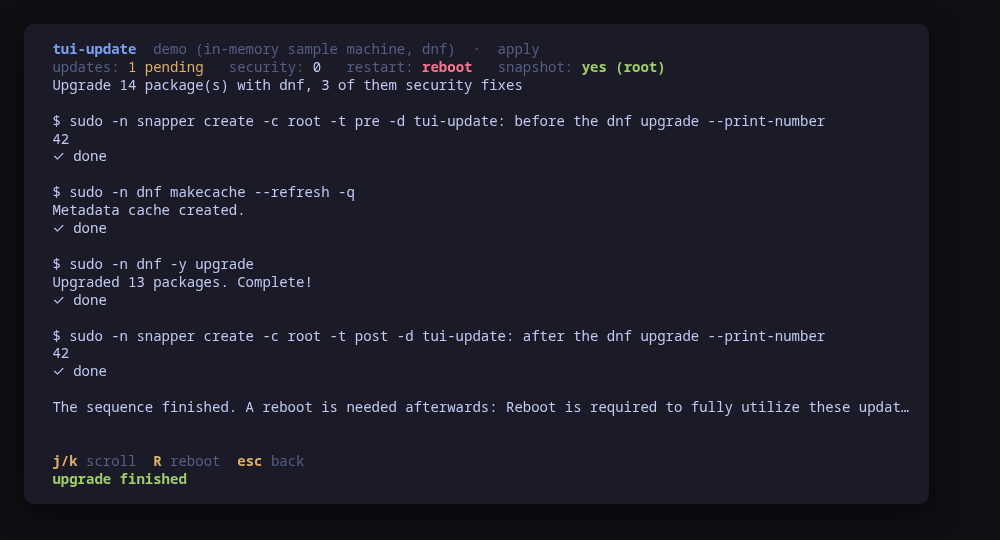
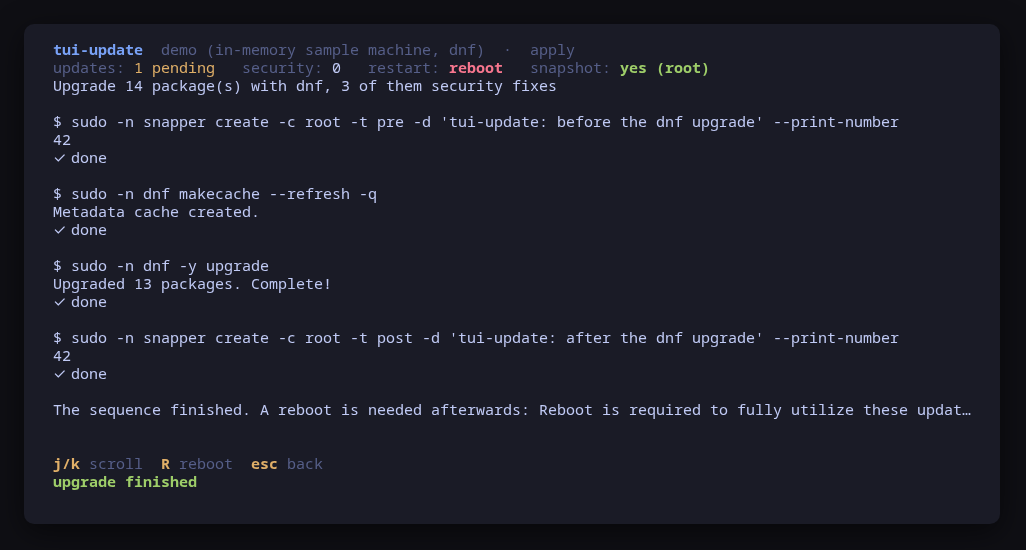
0.2.2: tui-kit v0.4.4 (#20)
Claude-Session: https://claude.ai/code/session_01MbCfX3T8khyd9hsrN5kMo3

diff --git a/internal/pkgmgr/command_test.go b/internal/pkgmgr/command_test.go
@@ -53,7 +53,7 @@ func TestArgvTable(t *testing.T) {
 			"dnf check-update -q --cacheonly"},
 		{"dnf sizes", BuildSizesDNF(),
 			"dnf repoquery --upgrades --latest-limit 1 -q --cacheonly " +
-				"--qf %{name}.%{arch}|%{evr}|%{downloadsize}\n"},
+				"--qf '%{name}.%{arch}|%{evr}|%{downloadsize}\n'"},
 		{"dnf security", BuildSecurityDNF(),
 			"dnf updateinfo list --security -q --cacheonly"},
 		{"dnf refresh", mustRefresh(t, updates.ManagerDNF),
@@ -124,7 +124,7 @@ func TestRPMQueryArgv(t *testing.T) {
 	if err != nil {
 		t.Fatalf("BuildInstalledVersionsDNF: %v", err)
 	}
-	want := "rpm -q --qf %{NAME}.%{ARCH}|%|EPOCH?{%{EPOCH}:}|%{VERSION}-%{RELEASE}\n" +
+	want := "rpm -q --qf '%{NAME}.%{ARCH}|%|EPOCH?{%{EPOCH}:}|%{VERSION}-%{RELEASE}\n'" +
 		" glibc kernel-core"
 	if got := cmd.String(); got != want {
 		t.Errorf("\n got %q\nwant %q", got, want)

diff --git a/cmd/tui-update/check.go b/cmd/tui-update/check.go
@@ -120,6 +120,15 @@ func runCheck(backend updates.Backend, backendCompat compat.Result,
 	if report.Services == nil {
 		report.Services = []string{}
 	}
+	// The same goes for the variables of the snapshot commands: the kit's
+	// runner.Command carries Env since v0.4.2, nil when a command sets none.
+	for _, cmd := range []*updates.Command{
+		&report.Model.Snapshot.Pre, &report.Model.Snapshot.Post,
+	} {
+		if cmd.Env == nil {
+			cmd.Env = []string{}
+		}
+	}
 	report.Timers = []checkTimer{}
 	for _, timer := range model.Timers {
 		report.Timers = append(report.Timers, checkTimer{

diff --git a/README.md b/README.md
@@ -3,9 +3,11 @@
 [![OpenSSF Scorecard](https://api.securityscorecards.dev/projects/github.com/tui-tools/tui-update/badge)](https://scorecard.dev/viewer/?uri=github.com/tui-tools/tui-update)
 [![OpenSSF Best Practices](https://www.bestpractices.dev/projects/14368/badge)](https://www.bestpractices.dev/projects/14368)
 
-> **Beta.** The family is days old and still changing. Package names,
-> flags and keys may move without notice until 1.0. Pin versions, and report
-> what breaks.
+<!-- stability:start -->
+> **Beta.** The family is days old and still changing. Package names, flags
+> and keys may move without notice until 1.0. Pin versions, and report what
+> breaks.
+<!-- stability:end -->
 
 A terminal UI for the updates waiting on your machine. It reads them from
 whichever package manager the machine actually runs — `pacman`, `apt` or `dnf` —
@@ -131,7 +133,7 @@ Upgrades then arrive with the rest of your system updates.
 ### Any distribution, static binary
 
 ```sh
-curl -fsSL https://github.com/tui-tools/tui-update/releases/download/v0.2.1/tui-update_0.2.1_linux_amd64.tar.gz | tar -xz tui-update
+curl -fsSL https://github.com/tui-tools/tui-update/releases/download/v0.2.2/tui-update_0.2.2_linux_amd64.tar.gz | tar -xz tui-update
 sudo install -m0755 tui-update /usr/local/bin/tui-update
 ```
 
